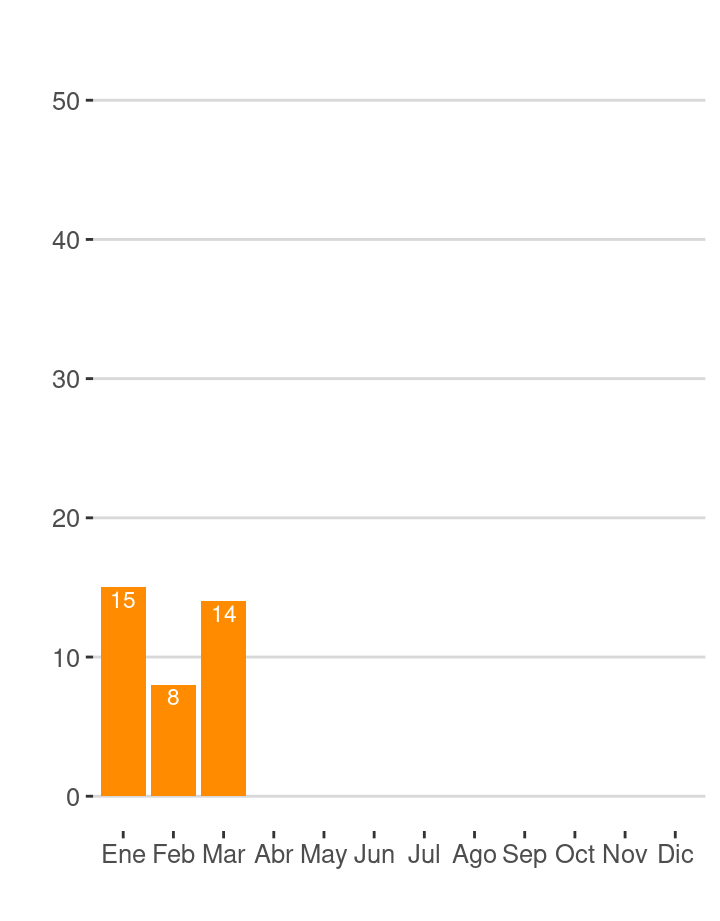
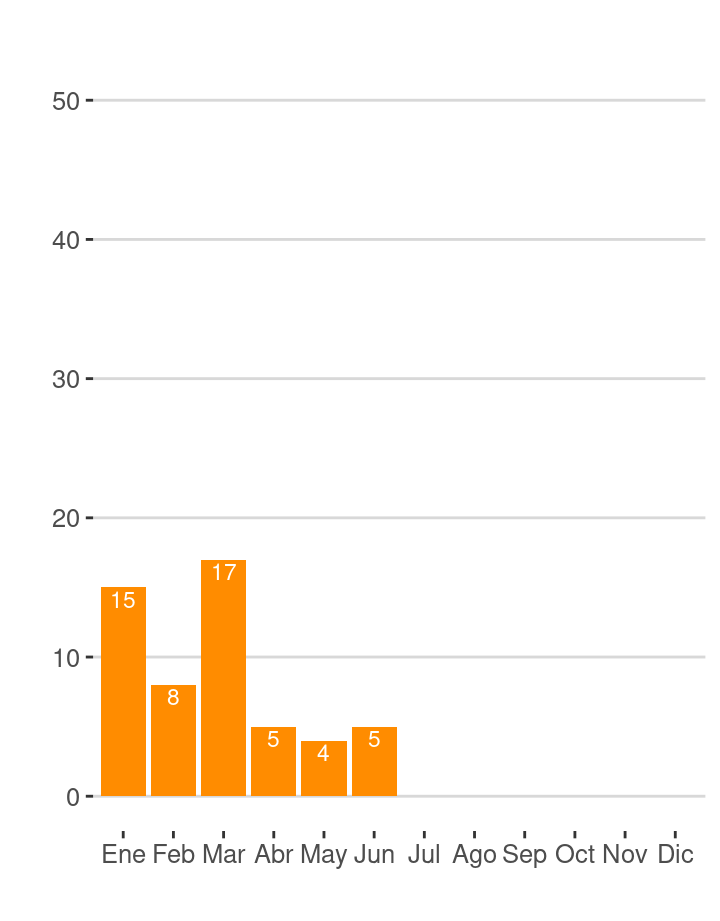
Actualizado hasta junio.

Changed region(s): [[0.3361, 0.7904, 0.55, 0.8817], [0.275, 0.608, 0.3667, 0.6688]]

diff --git a/Dashboard.html b/Dashboard.html
@@ -21,7 +21,6 @@
 window.FlexDashboardComponents = [];
 </script>
 
-<script src="Dashboard_files/header-attrs-2.11/header-attrs.js"></script>
 <script src="Dashboard_files/jquery-3.6.0/jquery-3.6.0.min.js"></script>
 <meta name="viewport" content="width=device-width, initial-scale=1" />
 <link href="Dashboard_files/bootstrap-3.3.5/css/cosmo.min.css" rel="stylesheet" />
@@ -2652,7 +2651,7 @@ color:white!important;
 <div id="entrada" class="section level1">
 <h1>Entrada</h1>
 <div id="columna" class="section level2 tabset" data-width="600">
-<h2 class="tabset">Columna</h2>
+<h2>Columna</h2>
 <div id="semanal" class="section level3">
 <h3>Semanal</h3>
 <div class="knitr-options" data-fig-width="768" data-fig-height="460">
@@ -2682,23 +2681,23 @@ color:white!important;
 <div class="knitr-options" data-fig-width="960" data-fig-height="480">
 
 </div>
-<div id="htmlwidget-8773fd76c64f6f85852c" style="width:960px;height:480px;" class="gauge html-widget"></div>
-<script type="application/json" data-for="htmlwidget-8773fd76c64f6f85852c">{"x":{"value":1780,"min":0,"max":3500,"customSectors":[{"lo":2800,"hi":3500,"color":"success"},{"lo":1750,"hi":2799,"color":"warning"},{"lo":0,"hi":1749,"color":"danger"}],"symbol":null,"label":"Oraciones Totales","humanFriendly":true,"humanFriendlyDecimal":2,"href":null},"evals":[],"jsHooks":[]}</script>
+<div id="htmlwidget-40d5a49d72580f9a7ed2" style="width:960px;height:480px;" class="gauge html-widget"></div>
+<script type="application/json" data-for="htmlwidget-40d5a49d72580f9a7ed2">{"x":{"value":1792,"min":0,"max":3500,"customSectors":[{"lo":2800,"hi":3500,"color":"success"},{"lo":1750,"hi":2799,"color":"warning"},{"lo":0,"hi":1749,"color":"danger"}],"symbol":null,"label":"Oraciones Totales","humanFriendly":true,"humanFriendlyDecimal":2,"href":null},"evals":[],"jsHooks":[]}</script>
 </div>
 <div id="oraciones-agregadas-en-2022" class="section level3">
 <h3>Oraciones agregadas en 2022</h3>
 <div class="knitr-options" data-fig-width="960" data-fig-height="480">
 
 </div>
-<div id="htmlwidget-9b69360f792f70a8ec7e" style="width:960px;height:480px;" class="gauge html-widget"></div>
-<script type="application/json" data-for="htmlwidget-9b69360f792f70a8ec7e">{"x":{"value":27,"min":0,"max":240,"customSectors":[{"lo":192,"hi":240,"color":"success"},{"lo":120,"hi":191,"color":"warning"},{"lo":0,"hi":119,"color":"danger"}],"symbol":null,"label":"Oraciones Nuevas","humanFriendly":true,"humanFriendlyDecimal":2,"href":null},"evals":[],"jsHooks":[]}</script>
+<div id="htmlwidget-f508857ceef1331ee776" style="width:960px;height:480px;" class="gauge html-widget"></div>
+<script type="application/json" data-for="htmlwidget-f508857ceef1331ee776">{"x":{"value":39,"min":0,"max":240,"customSectors":[{"lo":192,"hi":240,"color":"success"},{"lo":120,"hi":191,"color":"warning"},{"lo":0,"hi":119,"color":"danger"}],"symbol":null,"label":"Oraciones Nuevas","humanFriendly":true,"humanFriendlyDecimal":2,"href":null},"evals":[],"jsHooks":[]}</script>
 </div>
 </div>
 </div>
 <div id="vista-anual" class="section level1">
 <h1>Vista Anual</h1>
 <div id="columna-2" class="section level2 tabset" data-height="850">
-<h2 class="tabset">Columna</h2>
+<h2>Columna</h2>
 <div id="section" class="section level3">
 <h3>2020</h3>
 <div class="knitr-options" data-fig-width="864" data-fig-height="384">
@@ -2742,7 +2741,7 @@ color:white!important;
 <div class="knitr-options" data-fig-width="576" data-fig-height="460">
 
 </div>
-<p><span class="value-output" data-icon="fa-clock">37</span></p>
+<p><span class="value-output" data-icon="fa-clock">54</span></p>
 </div>
 </div>
 <div id="columna-4" class="section level2" data-height="100">
@@ -2766,7 +2765,7 @@ color:white!important;
 <div class="knitr-options" data-fig-width="576" data-fig-height="460">
 
 </div>
-<p><span class="value-output" data-icon="fa-folder">27</span></p>
+<p><span class="value-output" data-icon="fa-folder">39</span></p>
 </div>
 </div>
 </div>
